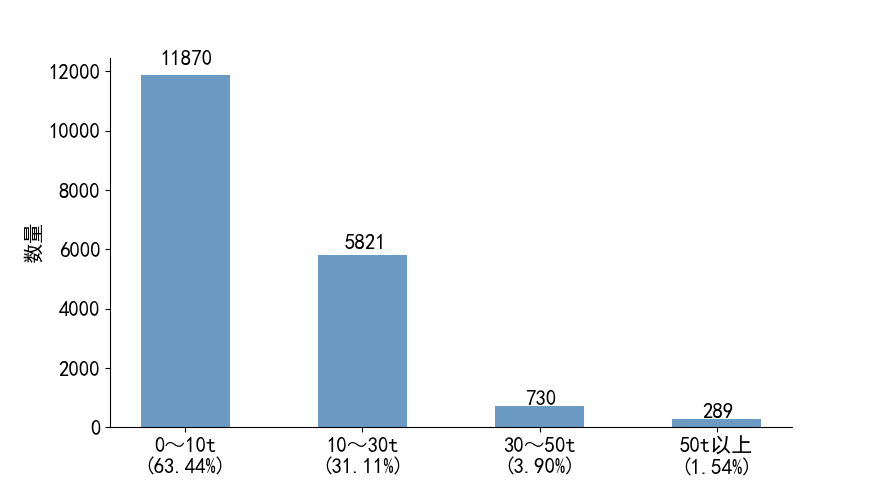
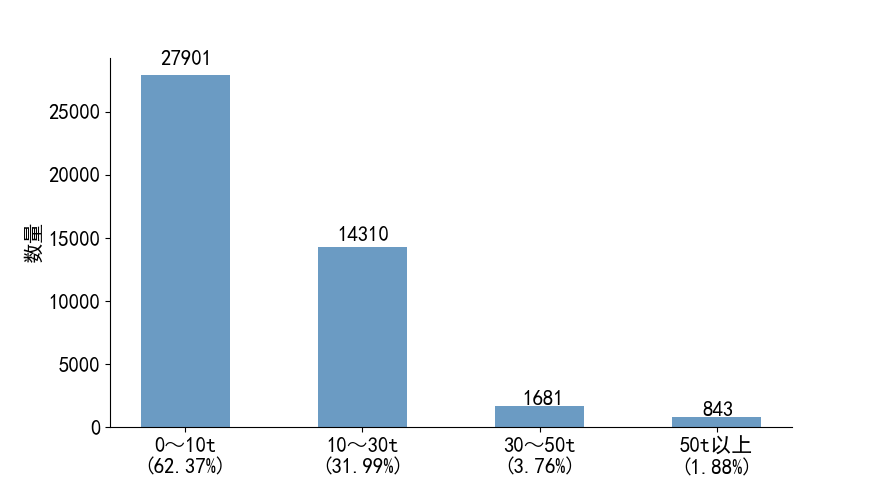
updating data

diff --git a/HelinConsoleApp/Program.cs b/HelinConsoleApp/Program.cs
@@ -77,11 +77,11 @@ namespace HelinConsoleApp
 
             int t1, t2;
 
-            var Gross_Load_Div = new int[] { 0, 10_000, 30_000, 50_000 };
+            var Gross_Load_Div = new int[] { 0, 10_000, 30_000, 55_000 };
             var Gross_Load_Dist = new List<int>();
             var Gross_Load_Dist2 = new List<int>();
 
-            var StartDataTime = new DateTime(2019, 12, 20, 0, 0, 0);
+            var StartDataTime = new DateTime(2019, 12, 1, 0, 0, 0);
             var FinishDataTime = new DateTime(2020, 1, 1, 0, 0, 0);
 
             //Expression<Func<HS_Data_201908, bool>> dataPredicate = x => x.HSData_DT >= StartDataTime && x.HSData_DT <= FinishDataTime;

diff --git a/PythonApplication/PythonApplication.py b/PythonApplication/PythonApplication.py
@@ -88,10 +88,10 @@ def plotItem(plt,itemChosen):
     #不同时间段车辆总数
     #不同速度车辆数及比例
     y_dataList=[
-    [11870,5821,730,289],
-    [11577,2567,1452,4409],
-    [1395,1143,1155,3357,5074,4763,4799,4998,5149,3070,2128,1684],
-    [209,11780,22640,4086]
+    [27901,14310,1681,843],
+    [27537,6680,3526,10425],
+    [3136,2631,2591,7595,11843,11095,11464,12438,12748,7808,5369,4185],
+    [775,29360,53322,9446]
     ]
 
     ## 包含每个柱子对应值的序列
